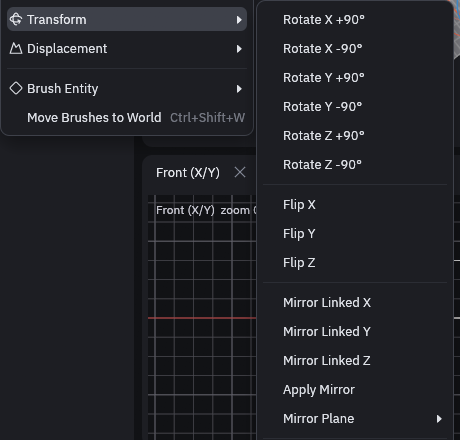
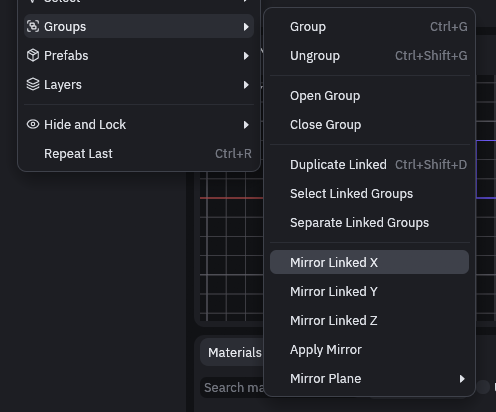
Document the mirror gap, Select Linked Groups and Separate Linked Groups
The Mirror section covers the Edit > Groups commands, the Mirror row with its Gap field and Mirror Again, moving both halves with Select Linked Groups, and the violet partner outline. The MCP reference gains set_mirror_gap, mirror_again, select_linked and the gap argument. New mirror-row screenshot, retaken mirror-menu and menu-groups.

diff --git a/docs/editor/brushes.md b/docs/editor/brushes.md
@@ -173,17 +173,22 @@ plane, so a change in either half shows up in both.
 
 1. Select what you built. A selected group is mirrored as it is, and anything else you selected is wrapped in a group
     named *Mirrored* first.
-2. Open the **Transform** section of the Inspector and look at **Mirror Plane**. It decides where the plane sits, see
-    the table below. The default is **max side**, which puts the plane on the selection's edge so the halves meet.
+2. Open *Edit > Groups*. Under **Mirror Plane** you decide where the plane sits, see the table below. The default is
+    **max side**, which puts the plane on the selection's edge so the halves meet.
 3. Click **Mirror Linked X**, **Mirror Linked Y** or **Mirror Linked Z**, the axis the plane stands across. The mirrored
     copy is selected afterwards, and the status bar says where the plane went.
 
+![The Edit menu with Groups open, Mirror Linked X, Y and Z, Apply Mirror and the Mirror Plane submenu below the group commands](../assets/brushes/mirror-menu.png)
+
+The **Transform** section of the Inspector has the same three buttons and a **Mirror Plane** menu. While a half of a
+mirrored pair is selected, the Inspector also shows a **Mirror** section below it, already open, with the plane, the gap
+and the buttons for the pair.
+
+![The Mirror section of the Inspector, reading Mirror plane X = 200 with a Gap field set to 16 units and Apply Mirror greyed out](../assets/brushes/mirror-row.png)
+
+The **Mirror Plane** menu in the Inspector holds the same choices as the submenu.
+
 ![The Transform section of the Inspector with the Mirror Plane menu open](../assets/brushes/mirror-inspector.png)
-
-You can also use *Brush > Transform*, where the three **Mirror Linked** items sit below the **Flip** ones and the
-**Mirror Plane** submenu holds the same choices as radio buttons.
-
-![The Brush menu with Transform open, showing Mirror Linked X, Y and Z, Apply Mirror and the Mirror Plane submenu](../assets/brushes/mirror-menu.png)
 
 | Mirror Plane | Where the plane goes |
 | --- | --- |
@@ -196,18 +201,47 @@ You can also use *Brush > Transform*, where the three **Mirror Linked** items si
 The setting is shared by every map tab and is not saved, it starts at **max side** again when you launch the editor.
 
 While a half of a mirrored pair is selected, the views draw the plane as an outline in the color of its axis, red for
-X, green for Y and blue for Z, and the Inspector says *Mirror plane X at 128 u*. Move one half and the outline moves
-with it, it stays halfway between the halves as in the picture below. Rotate it so it is no longer a plain mirror, and
-the outline goes away.
+X, green for Y and blue for Z, and the other half gets a violet outline so you can see which one belongs to your
+selection. The Mirror section in the Inspector reads *Mirror plane X = 200*, the position along that axis. Move one half
+towards the other or away from it and the outline moves too, it stays halfway between the halves as in the picture
+below. Slide a half along the plane, or rotate it so it is no longer a plain mirror, and the outline goes away.
 
 ![The 3D view with the halves of a mirrored wedge pair pulled apart, a red outline marks the plane halfway between them](../assets/brushes/mirror-plane.png)
 
-You edit as in any linked group, and the other half follows when you finish the edit, for example when you let go of a
-drag. That includes moved vertices, resized brushes and face materials, all mirrored, with the faces still pointing
-outwards and the textures mirrored too.
+### Moving the halves
 
-When the design is done, select either half and click **Apply Mirror** (below the Mirror Linked buttons in the
-Inspector, and in *Brush > Transform*, where it is greyed out until a mirrored pair is selected). It turns the pair into plain geometry in one undo step, with the link gone.
+Each half moves on its own. Drag one and the other stays where it is, the same as for any linked copy. That keeps the
+plane honest, you decide what happens to each side. What you edit inside a half is still mirrored, see below.
+
+* **To move both together**, select one half and run *Edit > Groups > Select Linked Groups*, then drag. The same
+  command is in the right click menu of the Outliner and the views.
+* **To space the halves apart**, type a number into **Gap** in the Mirror section. It is the distance between the two
+  halves in map units, and both move by the same amount, so the plane stays where it is. Dragging the field is one undo
+  step. The gap goes up to 65536 units, 2048 m. A negative gap pulls them into each other, down to minus the width of the
+  narrower half, below that it stops. Gap counts brushes and meshes, not decals or entities. If the pair has more linked copies, the Gap moves every copy
+  on each side along with its half.
+* **To put the halves back across from each other** after you slid one along the plane, click **Mirror Again** in
+  the Mirror section. The partner moves to the mirror image of the selected half in one undo step, and the status bar says how
+  far it moved. The button only shows while the pair is off the plane, and the section says by how much.
+* **To free one half**, run *Edit > Groups > Separate Linked Groups* on it. The two become plain groups you can change
+  however you like, and the plane no longer applies. Searching the command palette for *Make Unique* finds it too.
+
+> [!WARNING]
+> The gap is empty space, nothing fills it. On a mirrored room the floor, walls and ceiling are all open along that
+> strip, and a player in Godot falls straight through it. Set **Gap** back to 0 before you close the room with
+> **Apply Mirror**.
+
+You edit inside a half as in any linked group, and the other half follows when you finish the edit, for example when
+you let go of a drag. That includes moved vertices, resized brushes and face materials, all mirrored, with the faces
+still pointing outwards and the textures mirrored too. If a single edit reaches both halves and would leave them
+different, for example nudging a vertex of each by the same amount, which the mirror turns into two different moves,
+the editor refuses it and tells you in the status bar.
+
+When the design is done, select either half and click **Apply Mirror** (in the Mirror section of the Inspector, and in
+*Edit > Groups*, where it is greyed out until a mirrored pair is selected). It turns the pair into plain geometry in
+one undo step, with the link gone. The halves have to meet, so while **Gap** is above half a unit the button in the
+Inspector is greyed out, set it to 0 first. The menu entry stays clickable and the status bar says the halves do not
+meet. A negative gap, with the halves pushed into each other, is fine.
 
 * Brushes whose two halves form one convex shape are joined into a single brush.
 * Meshes are joined and their seam is welded, so a closed shape stays closed. Vertices within half a unit of the plane
@@ -216,8 +250,8 @@ Inspector, and in *Brush > Transform*, where it is greyed out until a mirrored p
 * Everything else, such as a brush pair that would not be convex together, stays as separate plain brushes in one group.
 
 The result stays in the group of the first half, *Mirrored* when the editor made it, and *Edit > Groups > Ungroup*
-takes it out. The halves have to meet. If they do not, the status bar tells you so and nothing changes, and
-*Edit > Groups > Unlink Groups* is the way to keep both halves as separate plain copies instead.
+takes it out. If the halves do not meet, the status bar tells you so and nothing changes, and
+*Edit > Groups > Separate Linked Groups* is the way to keep both halves as separate plain copies instead.
 
 > [!NOTE]
 > Mirror Linked flips everything the way **Flip** does. A terrain mirrors across X and Z, and across Y it stays upright
@@ -225,9 +259,11 @@ takes it out. The halves have to meet. If they do not, the status bar tells you 
 
 <div class="td-mcp" markdown>
 
-The MCP action `mirror_linked` takes `axis`, `plane` (center, max, min, world or custom) and `at`, and `apply_mirror`
-takes `distance`, the weld tolerance in units. `get_state` lists the planes of the selection as `mirror_planes`, and
-`set_editor` takes `edit_symmetry` for the Vertex tool.
+The MCP action `mirror_linked` takes `axis`, `plane` (center, max, min, world or custom), `at` and `gap`, and
+`set_mirror_gap` takes `gap` and an optional `axis`. `mirror_again` puts the partner back across from the selected half,
+`select_linked` selects every copy of the linked groups in the selection and `separate_linked_groups` frees them.
+`apply_mirror` takes `distance`, the weld tolerance in units. `get_state` lists the planes of the selection as
+`mirror_planes`, each with its `gap`, and `set_editor` takes `edit_symmetry` for the Vertex tool.
 
 </div>
 

diff --git a/docs/mcp.md b/docs/mcp.md
@@ -159,7 +159,11 @@ See [Reviewing changes](editor/reviewing.md) for keeping maps in git.
 | `map_file` exports | `path` is the written file, kept for older callers, `exported` names it too and `map_path` is the open map |
 | `terrain_edit` | `probe [x, z]` without `op` only reads the height. `clear_layer` needs `layer`. `op: "resize"` grows or crops the terrain by whole cells per side, `north`, `south`, `west` and `east` (positive adds, negative removes), or to `cells: [x, z]` around the center with the odd cell going east or south, and `cell_size` resamples it over the same area. The sides apply first, then the cell size, and `cells` cannot be combined with `cell_size`. `fill` is `edge` (default, new ground repeats the edge) or `zero`, and `scatter` is `drop` (default, removes scatter on the terrain over removed ground) or `keep`. `dry_run: true` returns the plan without changing anything, and a resize that changes nothing returns `changed: false` and records no undo step. A terrain has 1 to 2048 cells along each axis and a cell size from 0.001 to 100000, anything outside is refused whole |
 | `symmetry` | `run_action` `sculpt`, `blend` and `terrain_edit` take it and `set_editor` sets the one the Sculpt and Blend tool bars use, `get_state` reports it as `editor.symmetry`. It is `off`, `x`, `z` or `xz` (planes through each terrain's center), or an object `{axes, center, x, z}` where `center` is `terrain`, `world` or `custom` and `x` and `z` are the world positions of the planes with a custom center. A value replaces the whole setting. `sculpt` and `blend` follow the bar when it is missing, `terrain_edit` is off, so scripts replay the same. `terrain_edit` takes it for `sculpt`, `sculpt_path`, `paint_path` and `holes` by `center`, and refuses it on any other op |
-| `run_action` `mirror_linked` | Makes a [linked copy](editor/brushes.md#mirror) of the selection mirrored across a plane. `args.axis` is `x` (default), `y` or `z`, `args.plane` is `center`, `max`, `min`, `world` or `custom` and `args.at` is the position for `custom`, alone it implies `custom`. Left out, the plane is the one the Inspector holds, and the call does not change that setting. The reply has `copies` (the new groups, now selected) and `plane` as `{axis, at}`. Nothing selected is an error |
+| `run_action` `mirror_linked` | Makes a [linked copy](editor/brushes.md#mirror) of the selection mirrored across a plane. `args.axis` is `x` (default), `y` or `z`, `args.plane` is `center`, `max`, `min`, `world` or `custom` and `args.at` is the position for `custom`, alone it implies `custom`. Left out, the plane is the one the Inspector holds, and the call does not change that setting. `args.gap` (0 by default, in map units) moves the copy that much further out, up to 65536 (more is an error), a negative one down to minus the narrower half's width, below that it stops there. The reply has `copies` (the new groups, now selected), `plane` as `{axis, at}` and `gap`, the value applied after that limit. Nothing selected is an error |
+| `run_action` `set_mirror_gap` | Sets the distance between the two selected halves of a mirrored pair, like the Gap field in the Inspector. `args.gap` is in map units and both halves move evenly, so the plane stays. `args.axis` picks one plane when the selection has several. Below minus the narrower half's width it stops there. The reply has `plane` and `gap`, the value applied. Nothing mirrored selected, no plane on that axis or a gap over 65536 is an error |
+| `run_action` `mirror_again` | Moves the partner of a selected half that was slid along its plane back across from it, one undo step. The reply has `moved` (how many groups), `distance` and `plane`. Nothing selected that is off its plane is an error |
+| `run_action` `select_linked` | Selects every copy of the selected linked groups, or of the linked group around a selected object, leaving hidden and locked copies out. Run it on one half to move both |
+| `run_action` `separate_linked_groups` | Makes the selected linked groups plain groups, and frees a copy left alone in its set. `unlink_groups` is the old name and still works |
 | `run_action` `apply_mirror` | Turns a mirrored linked pair into plain geometry like [Apply Mirror](editor/brushes.md#mirror), meshes welded along the plane and brushes joined where their union is convex. `args.distance` is the weld distance in units, 0 to 16 and 0.5 by default. The reply has `groups`, `joined`, `welded` and `replaced`. Halves that do not meet, or nothing mirrored selected, is an error and nothing changes |
 | `set_editor` `edit_symmetry` | The symmetry of the Vertex and Mesh tools, shared by both, `get_state` reports it as `editor.edit_symmetry`. It is `off`, `x`, `y` or `z` (a plane through the middle of what is edited), or an object `{axis, plane, at}` where `plane` is `center`, `world` or `custom` and `at` is the position on the axis for `custom`, alone it implies `custom`. A value replaces the whole setting, and `max` and `min` are refused since a plane on the side of an object has nothing to mirror |
 | `run_action` `move_vertices` | Follows `edit_symmetry` like a drag in the Vertex tool, and the reply has `mirrored`, the number of counterpart vertices that moved with it. If either side would turn a brush concave nothing moves |
@@ -167,7 +171,7 @@ See [Reviewing changes](editor/reviewing.md) for keeping maps in git.
 | `get_state` `ui.tool_buttons` | One entry per tool button in the toolbar, in toolbar order, as `{tool, family, rect}`. `family` is `brush` for the brush tools, Texture, Mesh, Volume, Path and Measure, and `terrain` for Sculpt, Blend, Paint and Scatter. Rects are in screen points, multiply by `ui.pixels_per_point` for pixels of a window `screenshot` |
 | `get_state` `ui.panels` | The open panel tabs as `{panel, shown}`, where `panel` is the English tab name, such as `Outliner` or `Materials`, and `shown` is true for the tab at the front of its dock. The views are not listed, and a panel that starts closed, like `History` or `Scatter`, appears once it is opened |
 | `get_state` `ui.first_run` | `null`, or while the first start card is up, its `rect`, one `{preset, rect, selected}` per keymap preset and the `skip` rect. Click a preset or `skip` with `simulate_input` at the middle of its rect to answer it |
-| `get_state` `mirror_planes` | The mirror planes of the selected linked groups, the ones the views draw, as `{axis, at, group, partner}` |
+| `get_state` `mirror_planes` | The mirror planes of the selected linked groups, the ones the views draw, as `{axis, at, group, partner, gap}`, `gap` being the distance between the two halves |
 | `validate_map` | Accepts any method or property of the target's Godot class or script as an input. `coplanar_faces` flags faces that will flicker. Every issue has `bounds`. `path` checks a saved map without opening it, `project: true` checks every map in the project |
 | `run_action` `place_entities` | Takes `args.classnames`, and `at` and `normal` to rest the entities on a surface the way a drag from the Entities tab does. No classnames is an error |
 | `simulate_input` drags | A drag with `"release": false` keeps the button and its modifiers held after the call returns, so a screenshot shows the drag in progress, a card next to the cursor for example. A `release` event in a later call drops it where the pointer is, or at its `x` and `y`, or `world`, and a release with only one of `x` and `y` is an error. The drag and its modifiers stay held, over the real keyboard too, until that release, a `new_map` or a successful `close_tab` action, or MCP going off, so never forget the release. Clicks and drags are refused until then |

diff --git a/docs/GLOSSARY.md b/docs/GLOSSARY.md
@@ -115,7 +115,7 @@ A point in open space that stores the light arriving from every direction. Movin
 The Godot node that draws a light map and its light probes. A map built from a baked .tdm gets one named baked_lighting.
 
 ## linked copy
-A copy of a group that stays in sync with its original, so an edit to either one shows in both. Duplicate Linked makes one, and Mirror Linked makes one that is also a reflection, see Mirror in the brushes page.
+A copy of a group that stays in sync with its original, so an edit to either one shows in both. Duplicate Linked makes one, and Mirror Linked makes one that is also a reflection, see Mirror in the brushes page. Select Linked Groups selects every copy so they move together, and Separate Linked Groups turns the copies into plain groups.
 
 ## Lit Preview
 A shading mode of the editor's 3D view, toggled with F3, that shows the map's lights, sun shadows, sky and fog. Good for judging lighting before you build in Godot, but it only draws the 64 strongest point and spot lights.
@@ -139,7 +139,7 @@ A FuncGodotMapSettings resource that says where textures, materials and entity d
 Model Context Protocol, a standard way for AI agents and scripts to call a program's tools. The editor can run an MCP server so an agent can inspect and edit maps. You don't need it to build levels, and these docs hide the MCP parts until you turn on the MCP switch in the header.
 
 ## mirror plane
-The flat plane across which a linked copy is reflected, and the plane the Vertex and Mesh tools use to move matching vertices together. It stands across one axis, X, Y or Z, at a position along it, and the views draw it as an outline in that axis color.
+The flat plane across which a linked copy is reflected, and the plane the Vertex and Mesh tools use to move matching vertices together. It stands across one axis, X, Y or Z, at a position along it, halfway between the two halves of a mirrored pair, and the views draw it as an outline in that axis color.
 
 ## MultiMeshes
 Godot's way of drawing many copies of one mesh in a single pass. Scattered trees, rocks and grass are built as MultiMeshes, which keeps thousands of them cheap to render.

diff --git a/docs/editor/organizing.md b/docs/editor/organizing.md
@@ -78,9 +78,17 @@ the target row gets an outline.
 When you drag a selected row, the whole selection moves with it.
 
 **Duplicate Linked** (Ctrl+Shift+D) makes a copy that stays in sync with its original, so fixing one window frame fixes
-all of them. Linked copies show *(linked)* in the Outliner, and a click on one selects the whole group, since its copies
-are edited as one. *Edit > Groups > Unlink Groups* breaks the link when one copy has to differ. A linked copy can also be a reflection of its original, see
-[Mirror](brushes.md#mirror).
+all of them. Linked copies show *(linked)* in the Outliner. Each copy moves on its own, so dragging one leaves the others
+where they are, and what you edit inside one shows up in the others when you finish the edit. While a linked copy is
+selected, the views outline its partners in violet.
+
+| Command in *Edit > Groups* | What it does |
+| --- | --- |
+| **Select Linked Groups** | Selects every copy of the selected linked groups, so you can drag them together. Hidden and locked copies stay out. Also in the right click menu of the Outliner and the views |
+| **Separate Linked Groups** | Breaks the link when one copy has to differ. The selected groups become plain groups, and a copy left without partners becomes plain too. Searching the command palette for *Make Unique* finds it as well |
+
+A click on a linked copy in the Outliner selects the whole group, since its copies are edited as one, and a double click
+on its row opens the group. A linked copy can also be a reflection of its original, see [Mirror](brushes.md#mirror).
 
 ## Array copies
 

diff --git a/docs/editor/coming-from-unity-blender.md b/docs/editor/coming-from-unity-blender.md
@@ -14,7 +14,7 @@ keys. This page maps them, and [Build your first room](../getting-started.md) wa
 | ProBuilder shapes, Add menu | Drag in any view to draw a box [brush](brushes.md), Ctrl+Shift+B for arches, stairs and cylinders |
 | Boolean modifier | *Brush > CSG*: subtract (Ctrl+K), merge, intersect and hollow. They change the brushes right away, there is no modifier stack |
 | Edit mode | The **Vertex** tool for brushes, the **Mesh** tool for [meshes](meshes.md), both on Tab |
-| Mirror modifier | **Mirror Linked** in the Inspector's Transform section or *Brush > Transform* keeps a reflected [linked copy](brushes.md#mirror) of the selection, and **Apply Mirror** bakes it into one welded mesh or brush, like Apply on the modifier |
+| Mirror modifier | **Mirror Linked** in *Edit > Groups* or the Inspector's Transform section keeps a reflected [linked copy](brushes.md#mirror) of the selection, and **Apply Mirror** bakes it into one welded mesh or brush, like Apply on the modifier |
 | X mirror in edit mode | The **symmetry** menu in the options bar of the Vertex tool and the [Mesh tool](meshes.md#symmetry) moves the matching vertex on the other side of the plane too |
 | Prefabs | [Prefabs](organizing.md#prefabs), saved as their own map and updated in every instance |
 | Linked duplicate (Alt+D) | Duplicate linked, Ctrl+Shift+D, so the copies share their geometry |
